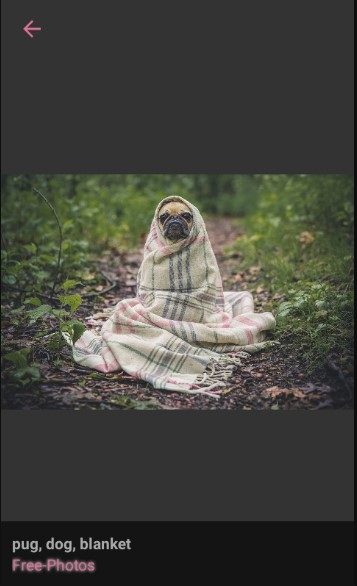
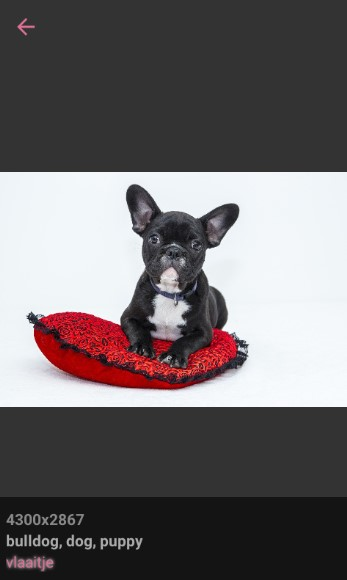
Added Resolution in Details

diff --git a/src/screens/DetailsScreen.js b/src/screens/DetailsScreen.js
@@ -16,7 +16,7 @@ export default function DetailsScreen({ route, navigation }) {
   const [showDetails, setShowDetails] = useState(false);
   const [loading, setLoading] = useState(true);
 
-  // console.log(item);
+  console.log(item);
 
   // opacity will be used as the value for opacity. Initial Value: 0
   const opacity = useRef(new Animated.Value(0)).current;
@@ -55,6 +55,9 @@ export default function DetailsScreen({ route, navigation }) {
       </Pressable>
 
       <Animated.View style={[styles.details, { opacity }]}>
+        <Text style={styles.resolution}>
+          {item.imageWidth}x{item.imageHeight}
+        </Text>
         <Text style={styles.tags}>{item.tags}</Text>
         <Text style={styles.uploader}>{item.user}</Text>
       </Animated.View>
@@ -85,6 +88,10 @@ const styles = StyleSheet.create({
     padding: 10,
     position: "absolute",
     bottom: 0,
+  },
+  resolution: {
+    color: "#888",
+    fontWeight: "bold",
   },
   tags: {
     color: "#aaa",

diff --git a/src/screens/ResultsScreen.js b/src/screens/ResultsScreen.js
@@ -31,7 +31,7 @@ export default function ResultsScreen({ navigation }) {
   const term = useSelector((state) => state.search.term);
 
   const [screenWidth, setScreenWidth] = useState(Dimensions.get("screen").width);
-  const [numColumns, setNumColumnse] = useState(isPortrait() ? 3 : 4);
+  const [numColumns, setNumColumnse] = useState(isPortrait() ? 3 : 5);
   const [page, setPage] = useState(1);
   const [images, setImages] = useState([]);
   const [moreImagesAvaliable, setMoreImagesAvaliable] = useState(true);
@@ -45,7 +45,7 @@ export default function ResultsScreen({ navigation }) {
   useEffect(() => {
     navigation.setOptions({ title: term });
     const sub = Dimensions.addEventListener("change", () => {
-      setNumColumnse(isPortrait() ? 3 : 4);
+      setNumColumnse(isPortrait() ? 3 : 5);
       setScreenWidth(Dimensions.get("screen").width);
     });
     return () => sub.remove();
